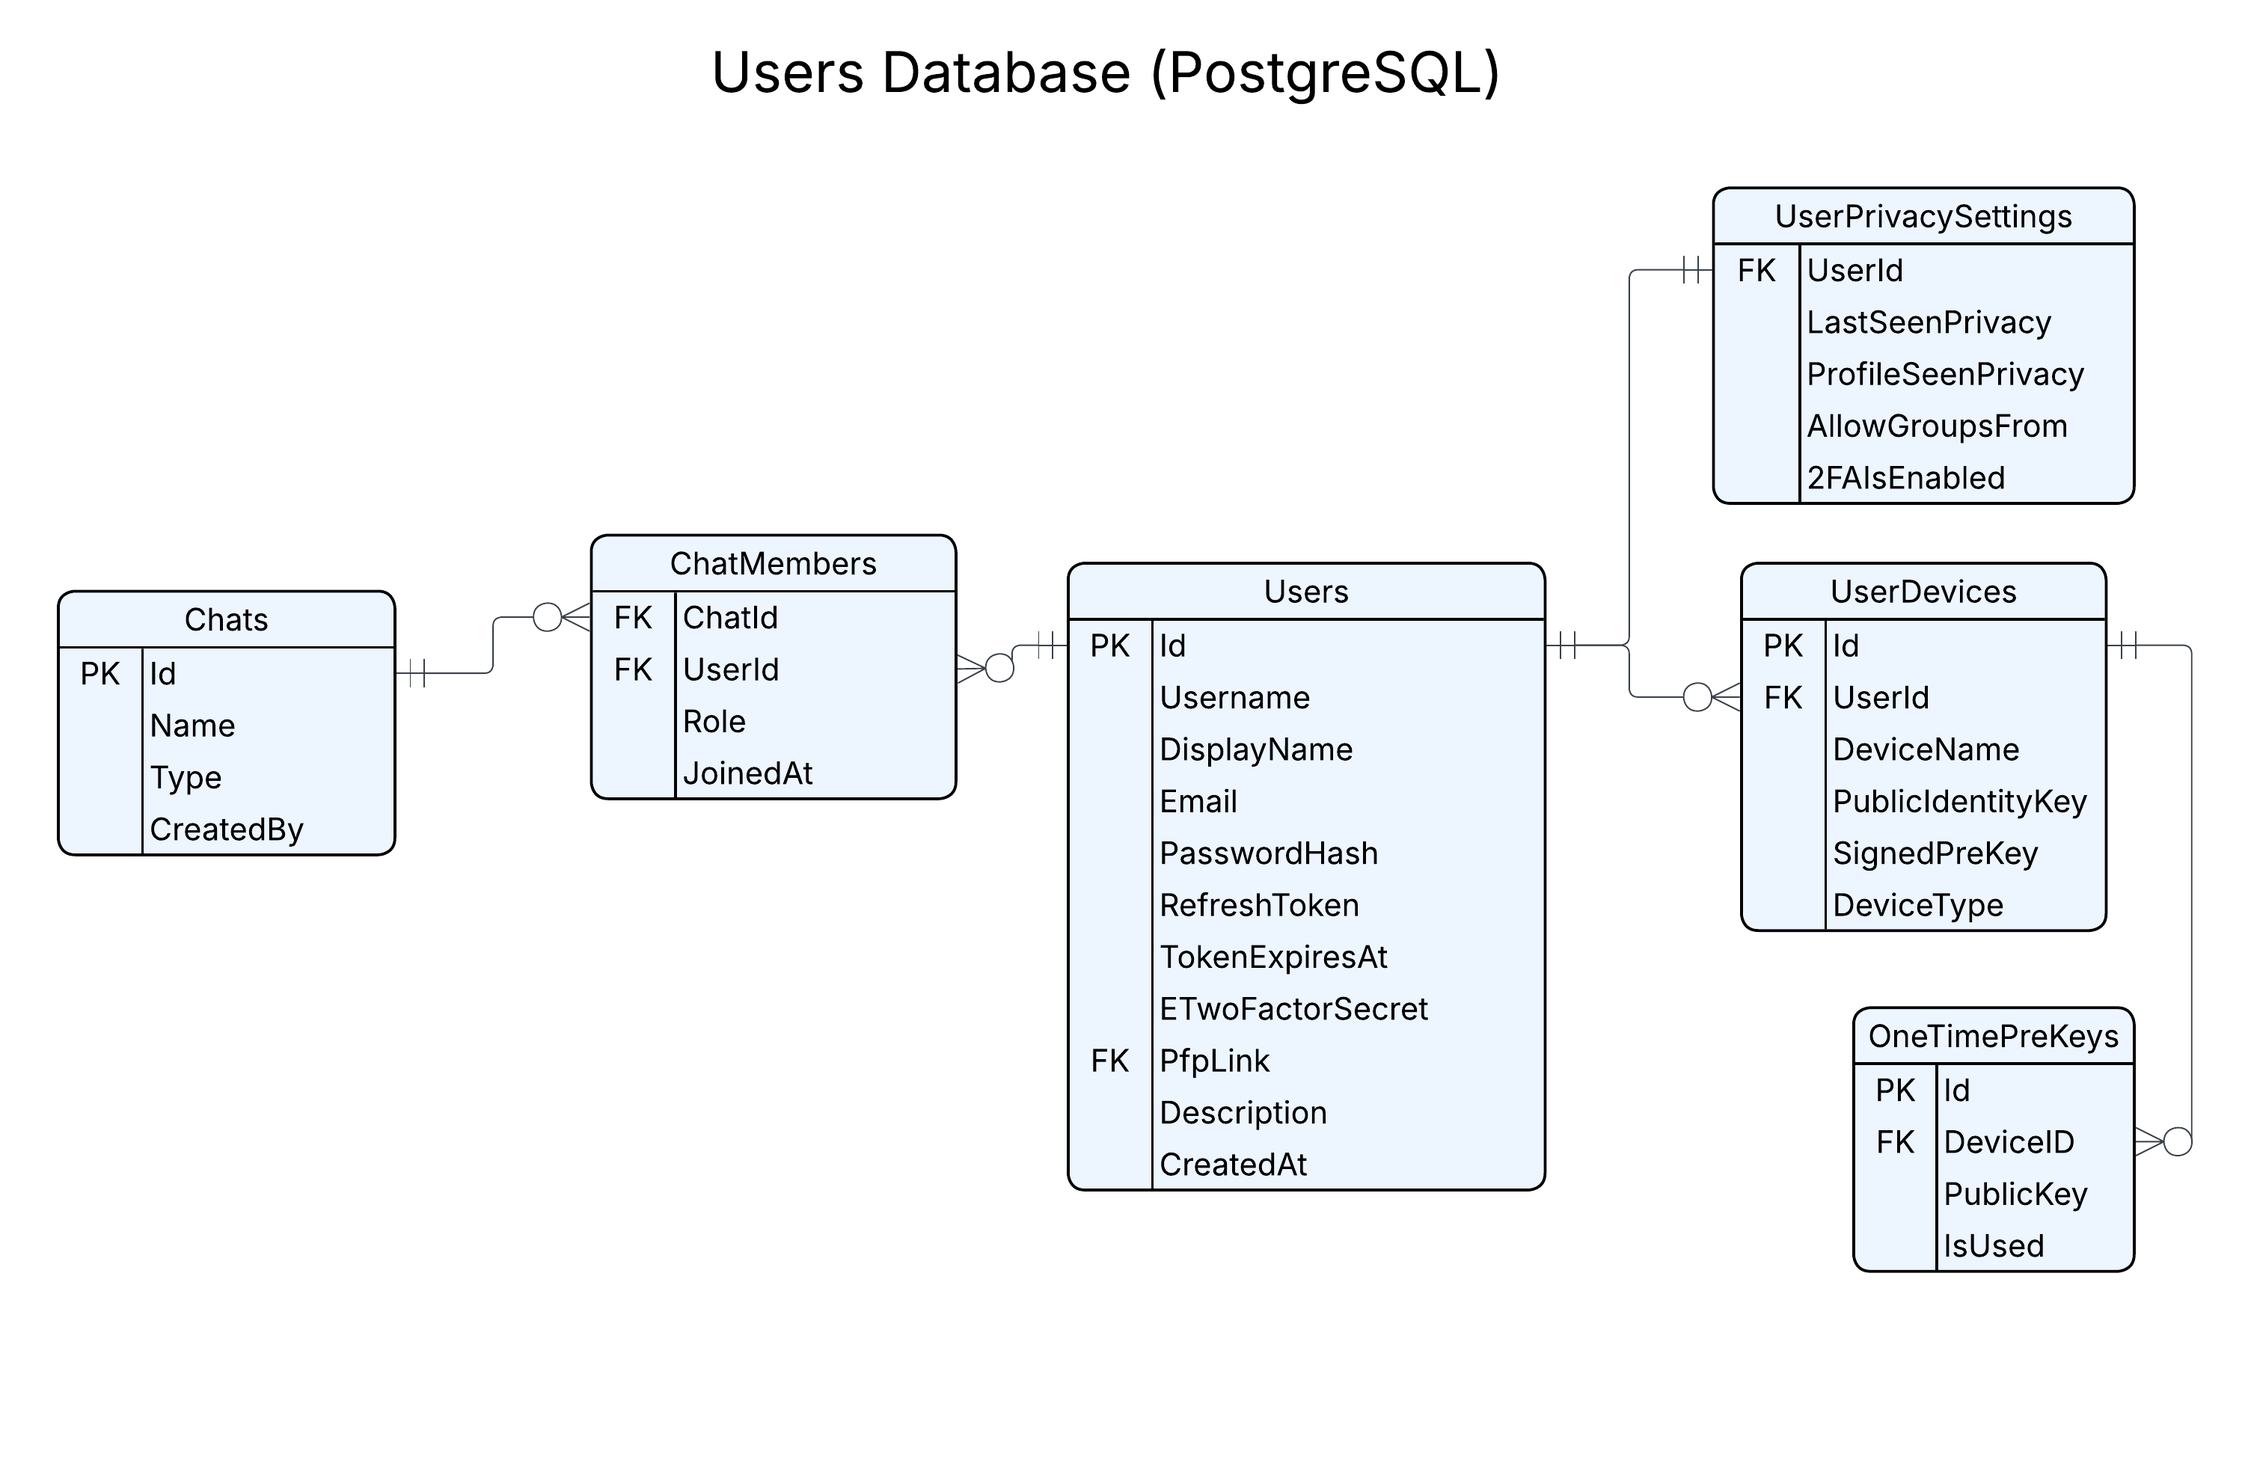
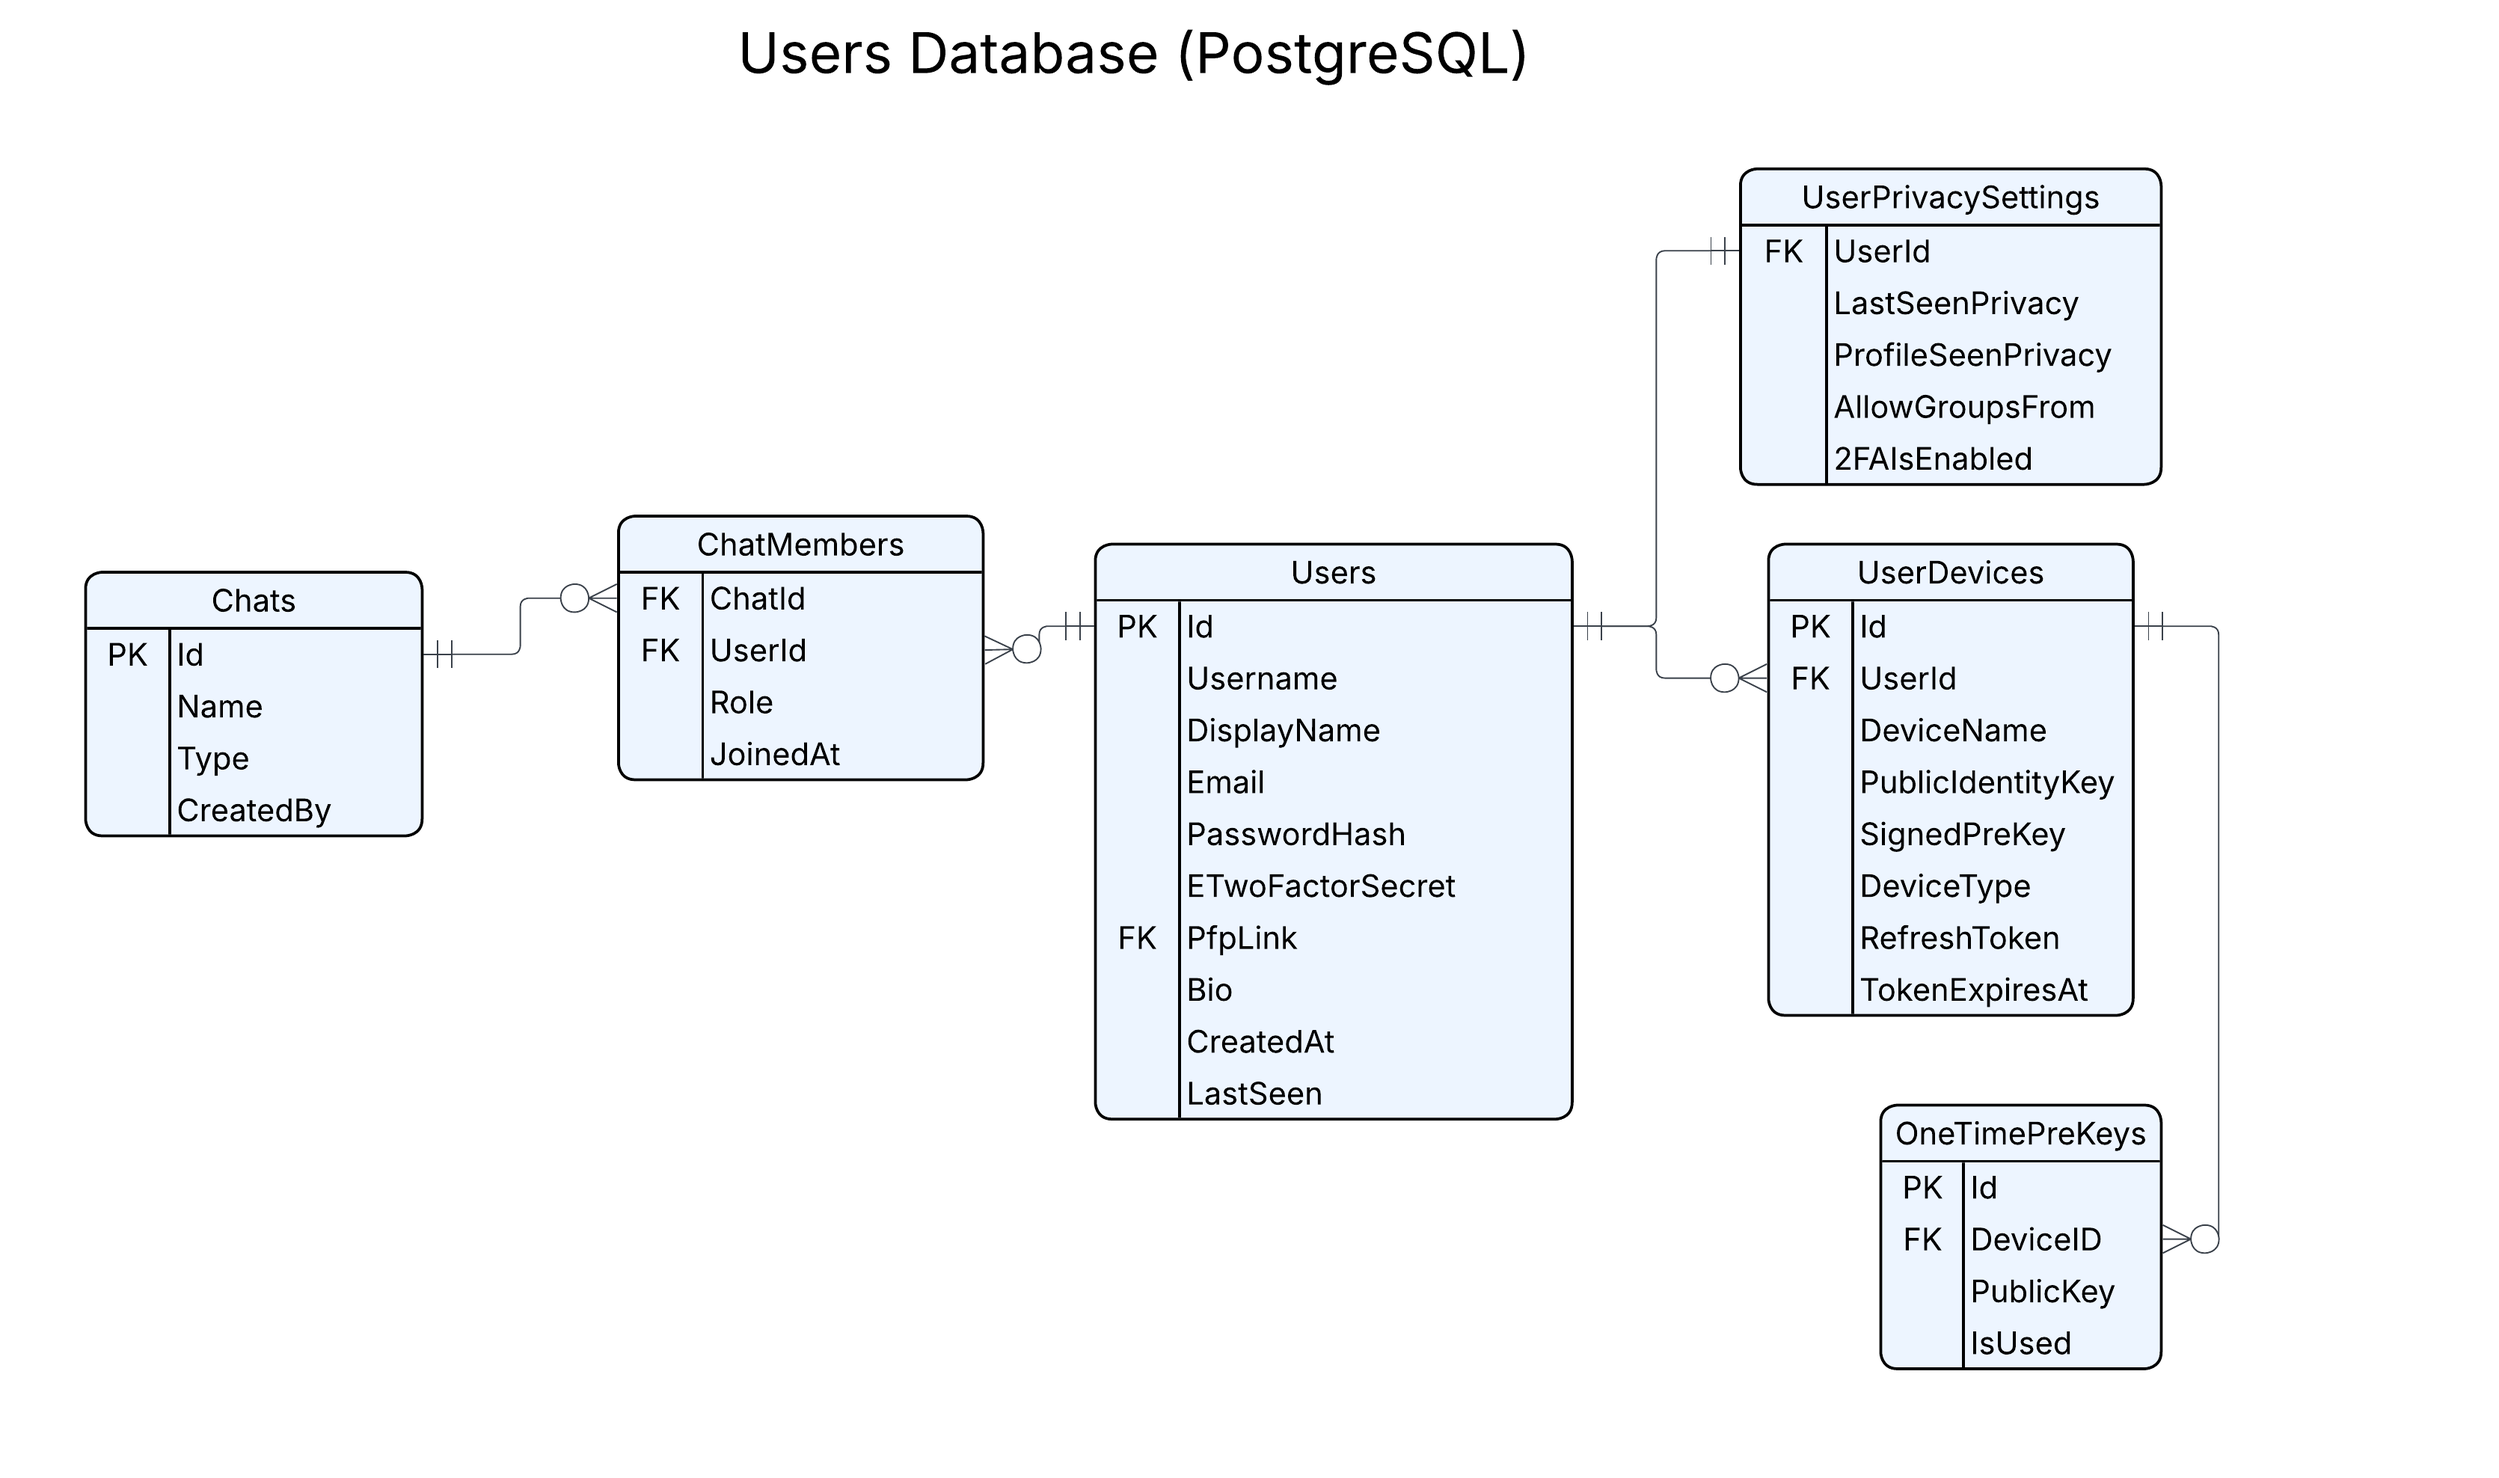
and this

diff --git a/src/Whisper.Server/Whisper.Persistence/Migrations/20260321191006_ChangedUsersTable.cs b/src/Whisper.Server/Whisper.Persistence/Migrations/20260321191006_ChangedUsersTable.cs
@@ -1,0 +1,72 @@
+using System;
+using Microsoft.EntityFrameworkCore.Migrations;
+
+#nullable disable
+
+namespace Whisper.Persistence.Migrations
+{
+    /// <inheritdoc />
+    public partial class ChangedUsersTable : Migration
+    {
+        /// <inheritdoc />
+        protected override void Up(MigrationBuilder migrationBuilder)
+        {
+            migrationBuilder.DropColumn(
+                name: "RefreshToken",
+                table: "Users");
+
+            migrationBuilder.RenameColumn(
+                name: "TokenExpiresAt",
+                table: "Users",
+                newName: "LastSeen");
+
+            migrationBuilder.RenameColumn(
+                name: "Description",
+                table: "Users",
+                newName: "Bio");
+
+            migrationBuilder.AddColumn<string>(
+                name: "RefreshToken",
+                table: "UserDevices",
+                type: "text",
+                nullable: false,
+                defaultValue: "");
+
+            migrationBuilder.AddColumn<DateTime>(
+                name: "TokenExpiresAt",
+                table: "UserDevices",
+                type: "timestamp with time zone",
+                nullable: false,
+                defaultValue: new DateTime(1, 1, 1, 0, 0, 0, 0, DateTimeKind.Unspecified));
+        }
+
+        /// <inheritdoc />
+        protected override void Down(MigrationBuilder migrationBuilder)
+        {
+            migrationBuilder.DropColumn(
+                name: "RefreshToken",
+                table: "UserDevices");
+
+            migrationBuilder.DropColumn(
+                name: "TokenExpiresAt",
+                table: "UserDevices");
+
+            migrationBuilder.RenameColumn(
+                name: "LastSeen",
+                table: "Users",
+                newName: "TokenExpiresAt");
+
+            migrationBuilder.RenameColumn(
+                name: "Bio",
+                table: "Users",
+                newName: "Description");
+
+            migrationBuilder.AddColumn<string>(
+                name: "RefreshToken",
+                table: "Users",
+                type: "text",
+                nullable: false,
+                defaultValue: "");
+        }
+    }
+}

diff --git a/src/Whisper.Server/Whisper.Persistence/Migrations/20260321191006_ChangedUsersTable.Designer.cs b/src/Whisper.Server/Whisper.Persistence/Migrations/20260321191006_ChangedUsersTable.Designer.cs
@@ -2,6 +2,7 @@
 using System;
 using Microsoft.EntityFrameworkCore;
 using Microsoft.EntityFrameworkCore.Infrastructure;
+using Microsoft.EntityFrameworkCore.Migrations;
 using Microsoft.EntityFrameworkCore.Storage.ValueConversion;
 using Npgsql.EntityFrameworkCore.PostgreSQL.Metadata;
 using Whisper.Persistence.Context;
@@ -11,9 +12,11 @@ using Whisper.Persistence.Context;
 namespace Whisper.Persistence.Migrations
 {
     [DbContext(typeof(AppDbContext))]
-    partial class AppDbContextModelSnapshot : ModelSnapshot
+    [Migration("20260321191006_ChangedUsersTable")]
+    partial class ChangedUsersTable
     {
-        protected override void BuildModel(ModelBuilder modelBuilder)
+        /// <inheritdoc />
+        protected override void BuildTargetModel(ModelBuilder modelBuilder)
         {
 #pragma warning disable 612, 618
             modelBuilder

diff --git a/src/Whisper.Server/Whisper.Domain/Entities/User.cs b/src/Whisper.Server/Whisper.Domain/Entities/User.cs
@@ -20,17 +20,15 @@ namespace Whisper.Domain.Entities
 
         //secure
         public string PasswordHash { get; set; }
-        public string RefreshToken { get; set; } = string.Empty;
-        public DateTime TokenExpiresAt { get; set; }
-
 
         //protocol
         public string ETwoFactorSecret { get; set; }
 
 
         public string? PfpLink { get; set; }
-        public string? Description { get; set; }
+        public string? Bio { get; set; }
         public DateTime CreatedAt { get; set; } = DateTime.UtcNow;
+        public DateTime LastSeen { get; set; } = DateTime.UtcNow;
 
         public virtual ICollection<UserDevice> Devices { get; set; } = new List<UserDevice>();
         public virtual ICollection<ChatMember> ChatMembers { get; set; } = new List<ChatMember>();

diff --git a/src/Whisper.Server/Whisper.Domain/Entities/UserDevice.cs b/src/Whisper.Server/Whisper.Domain/Entities/UserDevice.cs
@@ -18,6 +18,9 @@ namespace Whisper.Domain.Entities
         public string PublicIdentityKey { get; set; }
         public string SignedPreKey { get; set; }
 
+        public string RefreshToken { get; set; } = string.Empty;
+        public DateTime TokenExpiresAt { get; set; }
+
         public string? DeviceName { get; set; }
         public string? DeviceType { get; set; }
 
